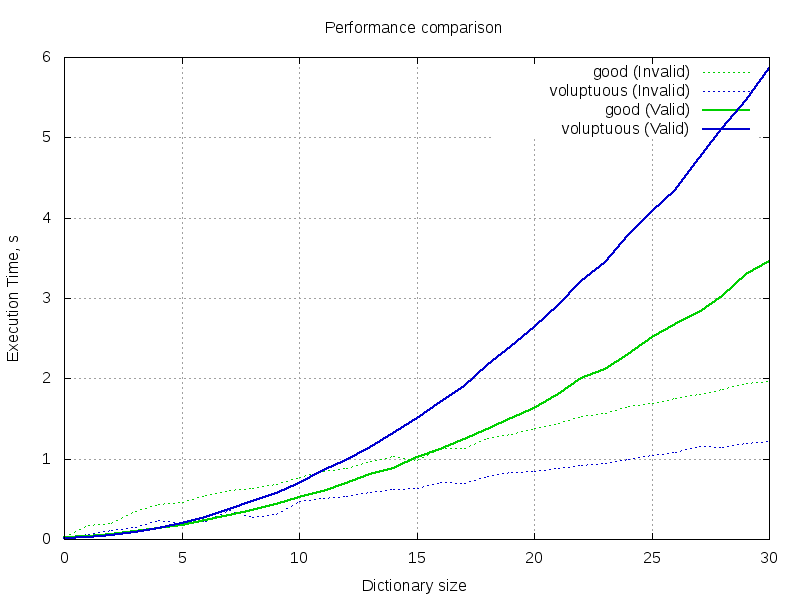
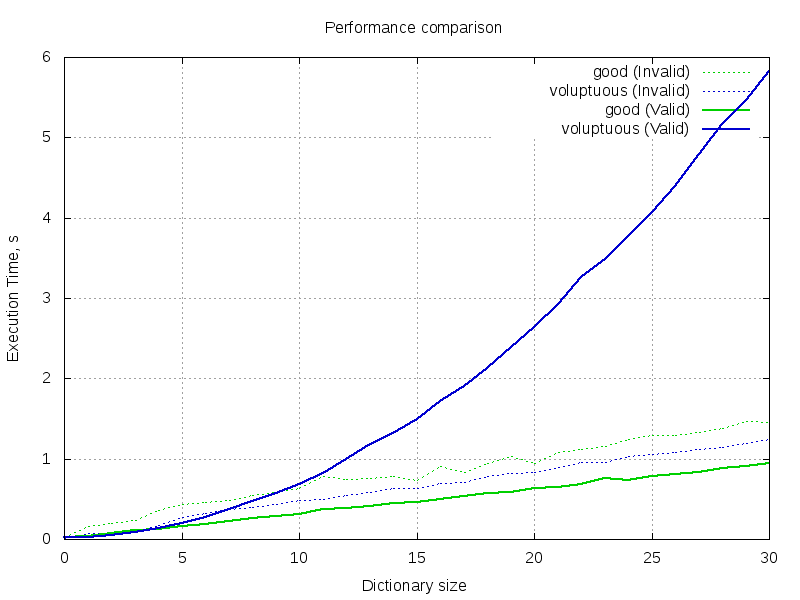
schema.compiler: HUGE performance improvement for mappings with direct key matching

diff --git a/good/schema/compiler.py b/good/schema/compiler.py
@@ -453,21 +453,27 @@ class CompiledSchema(object):
                 key_schema.compiled.on_compiled(value_schema=value_schema, as_mapping_key=True)
 
         # Sort key schemas for matching.
+
         # Since various schema types have different priority, we need to sort these accordingly.
         # Then, literals match before types, and Markers can define execution order using `priority`.
         # For instance, Remove() should be called first (before any validation takes place),
         # while Extra() should be checked last so it catches all extra keys that did not match other key schemas.
-        compiled = [ (key_schema, compiled[key_schema])
+
+        # In addition, since mapping keys are mostly literals, we want direct matching instead of the costly function calls.
+        # Hence, remember which of them are literals.
+        is_literal = lambda key_schema: key_schema.compiled.key_schema.compiled_type == const.COMPILED_TYPE.LITERAL
+
+        compiled = [ (key_schema, compiled[key_schema], is_literal(key_schema))
                      for key_schema in self.sort_schemas(compiled.keys())]
-        ''' :var  compiled: Sorted list of CompiledSchemas: (key-schema, value-schema),
-            :type compiled: list[CompiledSchema, CompiledSchema]
+        ''' :var  compiled: Sorted list of CompiledSchemas: (key-schema, value-schema, is-literal),
+            :type compiled: list[CompiledSchema, CompiledSchema, bool]
         '''
 
         # Prepare self
         self.compiled_type = const.COMPILED_TYPE.MAPPING
         self.name = _(u'{mapping_cls}[{mapping_keys}]').format(
             mapping_cls=get_type_name(type(schema)),
-            mapping_keys=_(u',').join(key_schema.name for key_schema, value_schema in compiled)
+            mapping_keys=_(u',').join(key_schema.name for key_schema, value_schema, is_literal in compiled)
         )
 
         # Error partials
@@ -488,7 +494,7 @@ class CompiledSchema(object):
             errors = []  # Collect errors on the fly
             d_keys = set(d.keys())  # Make a copy of dict keys for destructive iteration
 
-            for key_schema, value_schema in compiled:
+            for key_schema, value_schema, is_literal in compiled:
                 # First, collect matching (key, value) pairs for the `key_schema`.
                 # Note that `key_schema` can change the value (e.g. `Coerce(int)`), so for every key
                 # we store both the initial value (`input-key`) and the sanitized value (`sanitized-key`).
@@ -496,19 +502,31 @@ class CompiledSchema(object):
 
                 matches = []
 
-                # Walk all input values and pick those that match the current `key_schema`
-                for k in tuple(d_keys):
-                    # Exec key schema on the input key.
-                    # Since all key schemas are compiled as matchers -- we get a tuple (key-matched, sanitized-key)
-
-                    okay, sanitized_k = key_schema(k)
-
-                    # If this key has matched -- append it to the list of matches for the current `key_schema`.
-                    # Also, remove the key from the original input so it does not match any other key schemas
-                    # with lower priorities.
-                    if okay:
-                        matches.append(( k, sanitized_k, d[k] ))
+                if is_literal:
+                    # Since mapping keys are mostly literals --
+                    # save some iterations & function calls in favor of direct matching,
+                    # which introduces a HUGE performance improvement
+                    k = key_schema.schema
+                    if k in d:
+                        # (See comments below)
+                        matches.append(( k, k, d[k] ))
                         d_keys.remove(k)
+                else:
+                    # For non-literal schemas we have to walk all input keys
+                    # and detect those that match the current `key_schema`.
+                    # In contrast to literals, such keys may have multiple matches (e.g. `{ int: 1 }`).
+                    for k in tuple(d_keys):
+                        # Exec key schema on the input key.
+                        # Since all key schemas are compiled as matchers -- we get a tuple (key-matched, sanitized-key)
+
+                        okay, sanitized_k = key_schema(k)
+
+                        # If this key has matched -- append it to the list of matches for the current `key_schema`.
+                        # Also, remove the key from the original input so it does not match any other key schemas
+                        # with lower priorities.
+                        if okay:
+                            matches.append(( k, sanitized_k, d[k] ))
+                            d_keys.remove(k)
 
                 # Now, having a `key_schema` and a list of matches for it, do validation.
                 # If the key is a marker -- execute the marker first so it has a chance to modify the input,

diff --git a/good/schema/markers.py b/good/schema/markers.py
@@ -164,8 +164,6 @@ class Marker(object):
         return matches  # No-op by default
 
 
-#region Dictionary keys behavior
-
 class Required(Marker):
     """ `Required(key)` is used to decorate mapping keys and hence specify that these keys must always be present in
     the input mapping.
@@ -425,6 +423,5 @@ class Extra(Marker):
         # However, CompiledSchema does this anyway at the next step, so doing nothing here
         return matches
 
-#endregion
 
 __all__ = ('Required', 'Optional', 'Remove', 'Reject', 'Allow', 'Extra')
